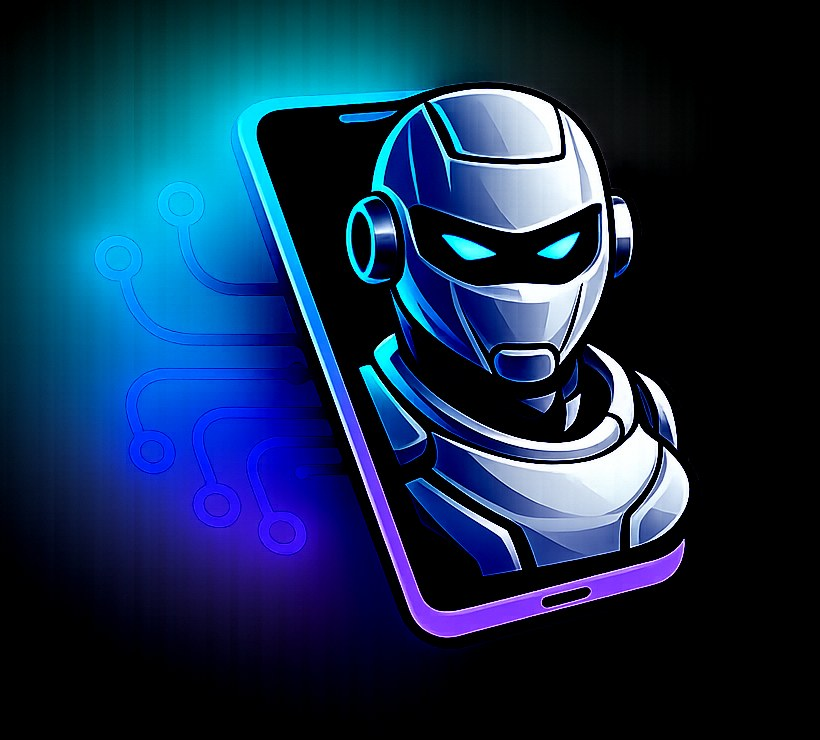
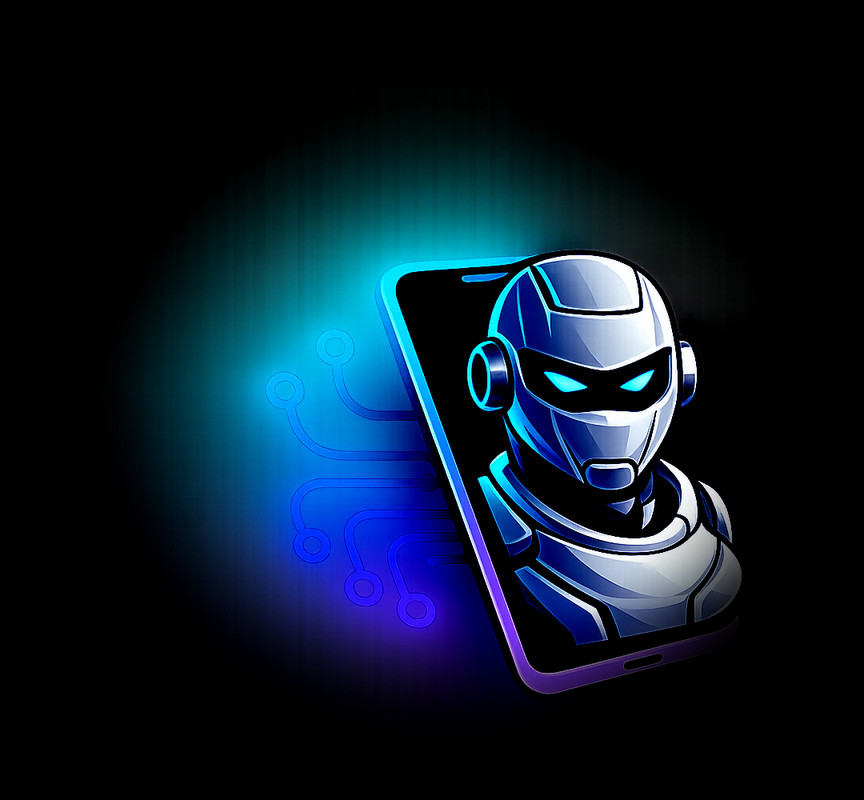
Abyss start page: the robot's glow is no longer cut off
The hero crop sat tight on the glow, so it ended in hard edges. Recut on a
larger black canvas with every edge faded to pure black (smoothstep from 62%
to 98% of the radius, light dither against banding); the page is now pure
black to match, the art is drawn 1.3x and clipped only at the screen edge.

diff --git a/components/abyss-splash.tsx b/components/abyss-splash.tsx
@@ -11,14 +11,17 @@ import { ABYSS } from '@/components/abyss-connect';
  * App" start screen (Dribbble 26139144, picked 28 Oct 2026): a black page, one
  * large picture in the top half fading into it, the name set big and light at
  * the bottom left, one grey line, and a slim pill button with an arrow.
- * The picture is EMC's own robot (assets/images/emc-robot-hero.jpg, the app
- * icon with its grey ground taken down to black). Same words as the old splash.
+ * The picture is EMC's own robot (assets/images/emc-robot-hero.jpg: the app
+ * icon with its grey ground taken down to black, set on a larger black canvas
+ * and faded to pure black at every edge, so the glow is never cut off).
+ * Same words as the old splash.
  *
  * Motion is slow and quiet, and skipped when the phone asks for reduced motion.
  */
 const web = Platform.OS === 'web';
 const native = !web;
-const BLACK = '#030509';
+// Pure black, the same as the picture's faded edges, so no box shows around it.
+const BLACK = '#000000';
 
 const rise = (v: Animated.Value) => ({
   opacity: v,
@@ -87,18 +90,11 @@ export function AbyssSplash({ onStart }: { onStart: () => void }) {
             style={styles.art}
             resizeMode="contain"
           />
-          {/* The picture melts into the page at the bottom and the sides. */}
+          {/* The picture's own edges already fade to black; this only eases it
+              into the words below. */}
           <LinearGradient
-            colors={['rgba(3,5,9,0)', 'rgba(3,5,9,0.85)', BLACK]}
-            locations={[0.55, 0.85, 1]}
-            style={StyleSheet.absoluteFill}
-            pointerEvents="none"
-          />
-          <LinearGradient
-            colors={[BLACK, 'rgba(3,5,9,0)', 'rgba(3,5,9,0)', BLACK]}
-            locations={[0, 0.12, 0.88, 1]}
-            start={{ x: 0, y: 0.5 }}
-            end={{ x: 1, y: 0.5 }}
+            colors={['rgba(0,0,0,0)', BLACK]}
+            locations={[0.75, 1]}
             style={StyleSheet.absoluteFill}
             pointerEvents="none"
           />
@@ -135,8 +131,11 @@ const styles = StyleSheet.create({
   container: { flex: 1, backgroundColor: BLACK },
   inner: { flex: 1, width: '100%', maxWidth: 480, alignSelf: 'center' },
 
+  // Clipped only where it meets the screen's own edges; keeps the page from scrolling sideways.
   artWrap: { flex: 1, minHeight: 260, justifyContent: 'center', overflow: 'hidden' },
-  art: { width: '118%', height: '100%', alignSelf: 'center' },
+  // Drawn larger than its box: the picture's edges are already black, so the
+  // overflow is invisible and the robot fills the top half.
+  art: { width: '100%', height: '100%', transform: [{ scale: 1.3 }] },
 
   bottom: { paddingHorizontal: 24, paddingBottom: 26 },
   title: {
